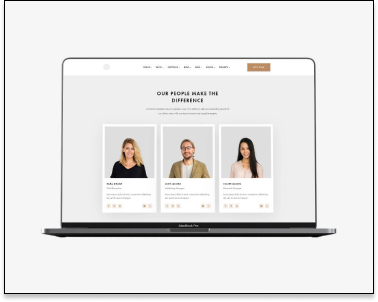
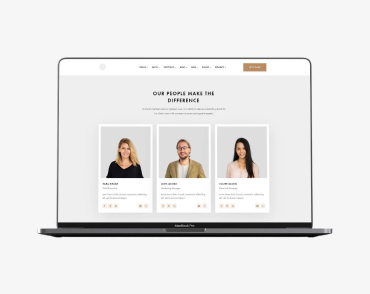
доработка размеров и флексов

diff --git a/portfolio.html b/portfolio.html
@@ -10,8 +10,8 @@
 </head>
 
 <body>
-  <div class="container">
-  <header class="hed-portfolio">
+  <div class="container hed-portfolio">
+  <header>
     <nav class="page-header">
     <a href="./index.html" class="logo">Web<span class="logo-second">Studio</span></a>
        <ul class="site-nav">
@@ -20,8 +20,8 @@
             <li class="item"><a href="" class="link">Контакты</a></li>
           </ul>
       <ul class="contact-nav">
-            <li class="item"><a href="mailto:info@devstudio.com">info@devstudio.com</a></li>
-            <li class="item"><a href="tel:+380961111111">+380961111111</a></li>
+            <li class="item"><a href="mailto:info@devstudio.com" class="klik">info@devstudio.com</a></li>
+            <li class="item"><a href="tel:+380961111111" class="klik">+380961111111</a></li>
            </ul>
           </div>
     </nav>
@@ -43,98 +43,119 @@
 
 <div class=" container">
 <ul class="portfolio">
- <li class="element item"> 
+ <li class="element"> 
   <a class="element-van" href="texno.html">
   <img src="./images/texno.png" alt="Технокряк" width="370">
+  <div class="box-bottom">
   <h2 class="title">Технокряк</h2>
   <p class="project">Веб-сайт</p></a>
+</div>
 </li>
-<li class="element item">
+
+
+<li class="element">
   <a class="element-van" href="постер.html">
   <img src="./images/постер.png" alt="Постер New Orlean vs Golden Star" width="370">
+  <div class="box-bottom">
   <h2 class="title">Постер New Orlean vs Golden Star</h2>
   <p class="project">Дизайн</p>
-</a> </li>
+</a> 
+</div>
+</li>
 
 
-<li class="element item">
+<li class="element">
   <a class="element-van" href="ресторан.html">
 <img src="./images/ресторан.png" alt="Ресторан Seafood" width="370">
+<div class="box-bottom">
 <h2 class="title">Ресторан Seafood</h2>
 <p class="project">Приложение</p>
 </a>
+</div>
 </li>
 
 
-<li class="element item">
+<li class="element">
   <a class="element-van" href="наушники.html">
   <img src="images/наушники.png" alt="Наушники" width="370">
+  <div class="box-bottom">
 <h2 class="title"> Проект Prime</h2>
   <p class="project">Маркетинг</p>
 </a>
+</div>
 </li>
 
 
-  <li class="element item">
+  <li class="element">
 <a class="element-van" href="проект.html">
   <img src="./images/проект.png" alt="Проект" width="370">
+  <div class="box-bottom">
   <h2 class="title">Проект Boxes</h2>
   <p class="project">Приложение</p>
 </a>
+</div>
 </li>
 
-<li class="element item">
+<li class="element">
   <a  class="element-van" href="Inspiration.html">
     <img src="./images/inspiration.png" alt="Монитор" width="370">
+    <div class="box-bottom">
     <h2 class="title">Inspiration has no Borders</h2>
     <p class="project">Дизайн</p>
   </a>
+</div>
 </li>
 
-  <li class="element item">
+  <li class="element">
     <a class="element-van" href="издание.html">
       <img src="./images/издание.png" alt="Журнал" width="370">
+      <div class="box-bottom">
       <h2 class="title">Издание Limited Edition</h2>
       <p class="project">Дизайн</p>
     </a>
+  </div>
   </li>
 
-    <li class="element item">
+    <li class="element">
       <a class="element-van" href="LabelTag.html">
         <img src="./images/LabelTag.png" alt="Этикетка" width="370">
+        <div class="box-bottom">
         <h2 class="title">Проект LAB</h2>
         <p class="project">Маркетинг</p>
       </a>
+    </div>
       </li>
 
-      <li class="element item">
+      <li class="element">
         <a class="element-van" href="growing.html">
           <img src="./images/growing.png" alt="Набор текста" width="370">
+          <div class="box-bottom">
           <h2 class="title">Growing Business</h2>
           <p class="project">Приложение</p>
         </a>
+      </div>
       </li>
 </ul>
 </div>
-
-
 </section>
-
-    
- </main>
+</main>
 
  <footer class="address">
-   
- <div class="container">
-<a href="./index.html" class="logo">Web<span class="logo-second">Studio</span></a>
+
+ <div class="container-footer">
+   <div class="container-address">
+
+<a href="./index.html" class="logo">Web<span class="logo-second name">Studio</span></a>
       <address>
         <ul class="contact">
-        <li > <a class="litter-contact" href="https://www.google.com/maps/place/%D0%B1%D1%83%D0%BB.+%D0%9B%D0%B5%D1%81%D0%B8+%D0%A3%D0%BA%D1%80%D0%B0%D0%B8%D0%BD%D0%BA%D0%B8,+26,+%D0%9A%D0%B8%D0%B5%D0%B2,+02000/@50.4265807,30.5361971,17z/data=!3m1!4b1!4m5!3m4!1s0x40d4cf0e033ecbe9:0x57a4dffefec77da0!8m2!3d50.4265807!4d30.5383858">г. Киев, пр-т Леси Украинки, 26</a></li>
-        <li ><a class="litter-contact" href="mailto:info@example.com"> info@example.com </a></li>
-        <li ><a class="litter-contact" href="tel:+380991111111"> +38 099 111 11 11 </a></li>
+        <li > <a class="litter-contact map" href="https://www.google.com/maps/place/%D0%B1%D1%83%D0%BB.+%D0%9B%D0%B5%D1%81%D0%B8+%D0%A3%D0%BA%D1%80%D0%B0%D0%B8%D0%BD%D0%BA%D0%B8,+26,+%D0%9A%D0%B8%D0%B5%D0%B2,+02000/@50.4265807,30.5361971,17z/data=!3m1!4b1!4m5!3m4!1s0x40d4cf0e033ecbe9:0x57a4dffefec77da0!8m2!3d50.4265807!4d30.5383858">г. Киев, пр-т Леси Украинки, 26</a></li>
+        <li ><a class="litter-contact time" href="mailto:info@example.com"> info@example.com </a></li>
+        <li ><a class="litter-contact time" href="tel:+380991111111"> +38 099 111 11 11 </a></li>
       </ul>
-      </address>
     </div>
+      </address>
+    
+  </div>
   </footer>
 
 </body>

diff --git a/css/styles.css b/css/styles.css
@@ -134,7 +134,6 @@ p{margin: 0;}
  background-color: #2F303A;
  ;}
 
-
     .hero-title {
     width: 696px;
     margin:0 auto;
@@ -161,6 +160,12 @@ p{margin: 0;}
     line-height: 1.8;
     color: var(--primary-bg-color);
     background-color: var(--accent-color);
+}
+
+
+.button-header:hover,
+.button-header:focus{
+    cursor: pointer; 
 }
 
 .section-bg {
@@ -296,16 +301,18 @@ left: 215px;}
 }
 
 .map{color: #FFFFFF;}
+.name {color: #FFFFFF;}
 
 .time {color: rgba(255, 255, 255, 0.6);}
 
 
 /*линия портфолио*/
 
-.hed-portfolio{ 
-    border: 1px solid #ECECEC;
-    border-width: 0px 0px 1px 0px;
-    }
+.hed-portfolio { 
+    margin: 0px;
+    border-bottom: 1px solid #ECECEC;
+    width: 1600px}
+
 
 
 /* СТИЛИ PORTFOLIO*/
@@ -344,23 +351,28 @@ color: var(--primary-text-color);
 text-decoration: none;
 }
 
-.site-nav .link:hover
-,.site-nav .link:focus{
+.site-nav .link:hover,
+.site-nav .link:focus{
 color:var(--accent-color); 
 }
 
+
 .contact-nav {
-display: flex;
-margin-left: auto; 
-s
-font-family: Roboto, sans-serif;
-font-weight: 500;    
-line-height: 1.14;
-}
+    display: flex;
+    margin-left: auto; 
+    font-family: Roboto, sans-serif;
+    font-weight: 500;    
+    line-height: 1.14;}
+
+ .klik {
+     color: var(--title-text-color);
+ }
 
 
 .contact-nav :hover,
-.contact-nav :focus {     
+.contact-nav :focus {   
+color: var(--accent-color)
+
 }
 
 .contact-nav .item + .item
@@ -374,6 +386,7 @@ line-height: 1.14;
     text-align: center;
    
 }
+
 .filter{
     font-weight: bold;
     font-family: Roboto, sans-serif;
@@ -395,6 +408,7 @@ background-color: var(--accent-color);
 }
 
 
+a { text-decoration: none;}
 
 .title {
 font-weight: 700;
@@ -406,9 +420,9 @@ margin-bottom: 4px;
 }
 
 .portfolio {
-    
     margin-left: -30px;
     margin-top: -30px;
+    margin-bottom: 94px;
     padding: 0;
     display:flex;
     flex-wrap: wrap;
@@ -416,7 +430,10 @@ margin-bottom: 4px;
 
 .element {
     margin-left: 30px;
-    margin-top: 30px;}
+    margin-top: 30px;
+    background: #FFFFFF;
+    border: 1px solid #EEEEEE;
+    box-sizing: border-box;}
 
 .element .title{
     color: var(--primary-text-color);
@@ -438,6 +455,9 @@ margin-bottom: 20px;}
     color: var(--title-text-color);
 }
 
+.box-bottom {
+    padding-left: 24px;
+}
 /*Footer*/
 
 .litter-contact{

diff --git a/index.html b/index.html
@@ -119,7 +119,7 @@
 <footer>
     <div class="container-footer">
       <div class="container-address">
- <a href="./index.html" class="logo" lang="en">Web<span class="logo-second">Studio</span></a>
+ <a href="./index.html" class="logo" lang="en">Web<span class="logo-second name">Studio</span></a>
       <address>
         <ul class="contact">
         <li> <a class="litter-contact  map" href="https://www.google.com/maps/place/%D0%B1%D1%83%D0%BB.+%D0%9B%D0%B5%D1%81%D0%B8+%D0%A3%D0%BA%D1%80%D0%B0%D0%B8%D0%BD%D0%BA%D0%B8,+26,+%D0%9A%D0%B8%D0%B5%D0%B2,+02000/@50.4265807,30.5361971,17z/data=!3m1!4b1!4m5!3m4!1s0x40d4cf0e033ecbe9:0x57a4dffefec77da0!8m2!3d50.4265807!4d30.5383858">г. Киев, пр-т Леси Украинки, 26</a></li>
